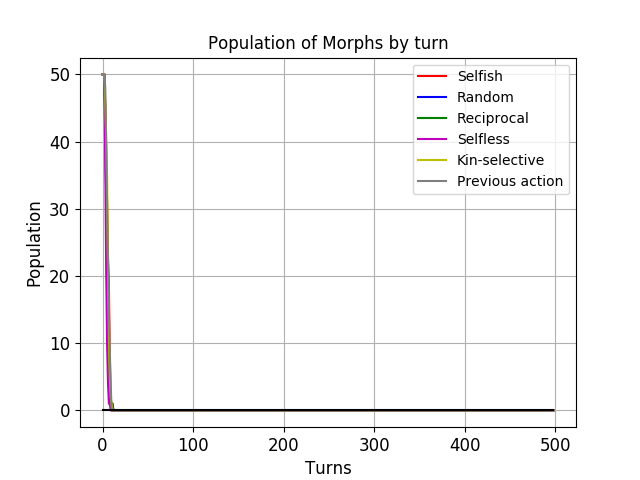
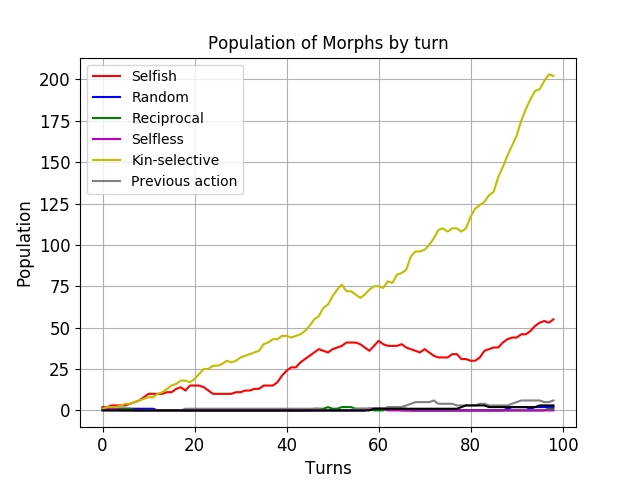
+fixed odd logic

diff --git a/environment/game.py b/environment/game.py
@@ -70,16 +70,16 @@ class Game():
     def morphModification(self, config):
         #toggle guarantees no issues for odd population, just leaves first morph in list alone
         toggle = 0
-        if(config.totalPopulation % 2 == 1): toggle = 1
+        if(len(self.population) % 2 == 1): toggle = 1
 
         reproduction = []
         death = []
 
+        #TODO ISSUE HERE FOR ODD NUMBERS - MAKE THEM ALWAYS SELFISH
         for x in range(0, len(self.population)-toggle-1, 2):
             #choice
             #print("Start of Turn: \nActor: ", self.population[x].getColour(), "C ", self.population[x].getEnergy(), "H\n")
             #print("Actee: ", self.population[x+1].getColour(), "C ", self.population[x+1].getEnergy(), "\n")
-            print(x)
 
             choice = self.population[x].makeChoice(self.population[x+1], config)
             if(choice == 0): self.population[x].addEnergy(config.selfishReward)
@@ -113,6 +113,12 @@ class Game():
             self.population[0].removeEnergy(config.tax)
             if(self.population[0].checkChange() == 1): reproduction.append(0)
             elif(self.population[0].checkChange() == 2): death.append(0)
+        elif(toggle==1):
+            self.population[len(self.population)-1].addEnergy(config.selfishReward)
+            self.population[len(self.population)-1].addEnergy(config.selfishReward)
+            if(self.population[len(self.population)-1].checkChange() == 1): reproduction.append(0)
+            elif(self.population[len(self.population)-1].checkChange() == 2): death.append(0)
+
 
         
         self.consolate(reproduction, death, config)

diff --git a/morphs/green.py b/morphs/green.py
@@ -15,11 +15,9 @@ class GreenMorph(Morph):
         if(len(self.actionMemory) == 0): return 0
         for i in range(0, len(self.actionMemory)-1):
             if target in self.actionMemory:
-                print(self.actionMemory[target])
                 return self.actionMemory[target]
         return random.randint(0,1)
 
     def rememberAction(self, target, action):
         self.actionMemory[target] = action
-        print(target, action)
         return

diff --git a/Readme.md b/Readme.md
@@ -4,7 +4,6 @@ When modifying the config file, do not change order or line number.
 Planned features:
 
 -cumulative plots
--save plots
 -formidability
 -black
 -white as variant on green
@@ -16,6 +15,6 @@ Planned features:
 
 Adding new morphs
 
-This will be complicated. Firstly, create a new morph in the morphs folder and make sure it inherits from the abstract Morph class for the sake of OOP. Go into config.txt, and add a population parameter for the new colour; then update the Config class in config.py to include this. 
+Firstly, create a new morph in the morphs folder and make sure it inherits from the abstract Morph class for the sake of OOP. Go into config.txt, and add a population parameter for the new colour; then update the Config class in config.py to include this. 
     After doing this, go to game.py and add in a for loop in the __init__ section to make sure that the new morphs are initialised if 
 they need to be. Do the same for the genMorph() function. This should then be enough for it to work. Remember also to update the dictionary mappings in config to include the new colour.
